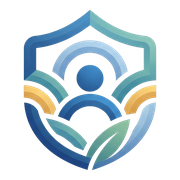
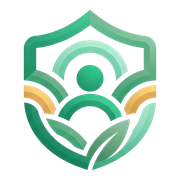
Green the mark, and scope the hospital count to the city searched
The mark was drawn in blues and teals against an interface built on a deep
green, so it read as borrowed from another product. The cool band is rotated
onto the brand's own hue and the amber accent left alone. The script that does
it and the untouched master live in the repository, so every derived size is
cut from one place and the favicon cannot drift from the manifest icons.

The results header reported the whole corpus, 580 hospitals across four
cities, beside a search scoped to one of them. Read together that claimed
Bengaluru holds 580 hospitals when the corpus gives it 250. It now counts the
city actually searched.

The exclusion breakdown is folded away behind a summary and replaced in the
open by one sentence naming the constraint that is actually binding. Nobody
needs to be told that 341 hospitals were too far; they need to know that
widening the radius is the thing that would help.

Changed region(s): [[0.1111, 0.0556, 0.8889, 0.9444]]

diff --git a/frontend/src/components/Results.jsx b/frontend/src/components/Results.jsx
@@ -121,9 +121,16 @@ export function Results({ results, onStartJourney, starting }) {
       <Card>
         <div className="px-5 py-4">
           <p className="text-[0.875rem] font-medium">{results.message}</p>
-          <p className="mt-1 text-[0.75rem] text-muted">
-            We looked at {results.considered.toLocaleString('en-IN')} hospitals.
+          <p className="mt-1 text-[0.8125rem] text-muted">
+            We looked at{' '}
+            {(results.considered_in_city || results.considered).toLocaleString('en-IN')}
+            {' '}hospitals{results.city ? ` in ${results.city}` : ''}.
           </p>
+          {results.one_thing_to_change && (
+            <p className="mt-1 text-[0.8125rem] text-muted">
+              {results.one_thing_to_change}
+            </p>
+          )}
 
           {results.relaxations?.length > 0 && (
             <div className="mt-3 space-y-2 rounded-lg border border-warn/25 bg-warn-soft p-3">
@@ -139,6 +146,9 @@ export function Results({ results, onStartJourney, starting }) {
             </div>
           )}
 
+          {/* Kept, but folded away. The counts are how the system explains
+              itself when challenged, not something to put in front of someone
+              who only wants to know where to go. */}
           {results.exclusions?.length > 0 && (
             <details className="mt-3">
               <summary className="cursor-pointer text-[0.75rem] text-muted">

diff --git a/scripts/recolour_logo.py b/scripts/recolour_logo.py
@@ -1,0 +1,110 @@
+"""Bring the app mark into the palette the rest of the interface uses.
+
+The mark was drawn in blues and teals while the application is built on a deep
+green, so on the header it read as something borrowed from another product. This
+rotates the cool half of the mark onto the brand's own hue and leaves the amber
+accent alone, which is the one part that is meant to stand apart.
+
+Every size is regenerated from the 512px master, so the favicon, the manifest
+icons and the inline mark in the README cannot drift out of step with each
+other.
+
+    python scripts/recolour_logo.py
+
+Idempotent in the sense that matters: it always reads `SOURCE` and rewrites the
+derived sizes, so running it twice does not compound the rotation.
+"""
+
+from __future__ import annotations
+
+import colorsys
+from pathlib import Path
+
+from PIL import Image
+
+ROOT = Path(__file__).resolve().parent.parent
+SOURCE = ROOT / "assets" / "logo-master.png"
+PUBLIC = ROOT / "frontend" / "public"
+DOCS = ROOT / "docs" / "images"
+
+# The cool band to move, in degrees. Everything outside it, notably the amber,
+# is left exactly as drawn.
+COOL_FROM, COOL_TO = 150.0, 265.0
+
+# Where that band lands. The brand green is #0f5c4a, which sits at 166 degrees,
+# so the range is compressed around it rather than rotated rigidly: a rigid
+# rotation keeps the original spread and the mark comes out as several
+# unrelated greens instead of one family.
+TARGET_FROM, TARGET_TO = 138.0, 176.0
+
+SATURATION_LIFT = 1.08
+"""Greens read flatter than blues at the same saturation. A small lift keeps the
+mark from going grey once it has moved."""
+
+SIZES = {
+    PUBLIC / "logo-512.png": 512,
+    PUBLIC / "logo-192.png": 192,
+    PUBLIC / "logo-64.png": 64,
+    PUBLIC / "apple-touch-icon.png": 180,
+    PUBLIC / "favicon-32.png": 32,
+    PUBLIC / "favicon-16.png": 16,
+    DOCS / "logo-inline.png": 64,
+}
+
+
+def shift_hue(image: Image.Image) -> Image.Image:
+    out = image.convert("RGBA")
+    pixels = out.load()
+    assert pixels is not None
+
+    width, height = out.size
+    for y in range(height):
+        for x in range(width):
+            r, g, b, a = pixels[x, y]
+            if a == 0:
+                continue
+
+            h, s, v = colorsys.rgb_to_hsv(r / 255, g / 255, b / 255)
+            degrees = h * 360
+
+            if not (COOL_FROM <= degrees <= COOL_TO):
+                continue
+
+            position = (degrees - COOL_FROM) / (COOL_TO - COOL_FROM)
+            moved = TARGET_FROM + position * (TARGET_TO - TARGET_FROM)
+
+            nr, ng, nb = colorsys.hsv_to_rgb(
+                moved / 360, min(s * SATURATION_LIFT, 1.0), v
+            )
+            pixels[x, y] = (
+                round(nr * 255), round(ng * 255), round(nb * 255), a
+            )
+
+    return out
+
+
+def main() -> None:
+    if not SOURCE.exists():
+        raise SystemExit(
+            f"{SOURCE} not found. It is the untouched master the sizes are cut "
+            f"from; without it a second run would rotate an already rotated mark."
+        )
+
+    master = shift_hue(Image.open(SOURCE))
+
+    for path, size in SIZES.items():
+        path.parent.mkdir(parents=True, exist_ok=True)
+        master.resize((size, size), Image.LANCZOS).save(path, optimize=True)
+        print(f"  wrote {path.relative_to(ROOT)}  ({size}px)")
+
+    # The .ico carries several sizes in one file, which is what Windows and a
+    # few feed readers still ask for.
+    master.resize((64, 64), Image.LANCZOS).save(
+        PUBLIC / "favicon.ico",
+        sizes=[(16, 16), (32, 32), (48, 48), (64, 64)],
+    )
+    print(f"  wrote {(PUBLIC / 'favicon.ico').relative_to(ROOT)}  (multi-size)")
+
+
+if __name__ == "__main__":
+    main()

diff --git a/backend/app/api/routes.py b/backend/app/api/routes.py
@@ -498,15 +498,63 @@ async def search(session_id: str, payload: SearchRequest) -> dict[str, Any]:
     return _search_payload(result)
 
 
+_MORE_OPTIONS_ADVICE: dict[str, str] = {
+    "too_far": "Widening your search area would bring in the most hospitals.",
+    "procedure_unavailable": (
+        "Most hospitals nearby do not perform this treatment. A wider search "
+        "area is the thing most likely to help."
+    ),
+    "specialty_unavailable": (
+        "This speciality is thinly covered near you. Try a wider search area."
+    ),
+    "not_cashless": (
+        "Most hospitals nearby are outside your cashless network. Including "
+        "them would mean paying upfront and claiming it back."
+    ),
+    "no_bed_available": (
+        "Beds are the constraint right now rather than cover. It is worth "
+        "calling the hospitals below before travelling."
+    ),
+    "no_eligible_room": (
+        "Your room entitlement is ruling out most hospitals nearby. Accepting "
+        "a higher room category would open more up, at a cost."
+    ),
+}
+
+
+def _one_thing_to_change(result) -> str:
+    """The single change that would show the user more options.
+
+    This replaced a breakdown of every exclusion cause with its count. Nobody
+    needs to be told that 341 hospitals were too far away; it is engineering
+    pride rendered as a widget. What a family in a corridor can act on is one
+    sentence naming the constraint that is actually binding.
+    """
+    summary = result.exclusion_summary()
+    if not summary:
+        return ""
+    top = max(summary, key=lambda cause: summary[cause])
+    return _MORE_OPTIONS_ADVICE.get(str(top), "")
+
+
 def _search_payload(result) -> dict[str, Any]:
     code = result.context.procedure_code if result.context else None
     procedure = datasets.procedures.get(code) if code else None
     name = procedure.name if procedure else ""
 
+    city = result.context.city if result.context else ""
+    # Scoped to the city actually searched. The corpus spans four cities, so
+    # reporting its full size beside a city-scoped search read as a claim that
+    # Bengaluru alone holds 580 hospitals.
+    in_city = sum(1 for h in datasets.hospitals if h.city == city) if city else 0
+
     return {
         "message": result.message,
         "fully_satisfied": result.is_fully_satisfied,
         "considered": result.considered_count,
+        "considered_in_city": in_city,
+        "city": city,
+        "one_thing_to_change": _one_thing_to_change(result),
         "options": [_option_payload(o, name) for o in result.options],
         "relaxations": [
             {
